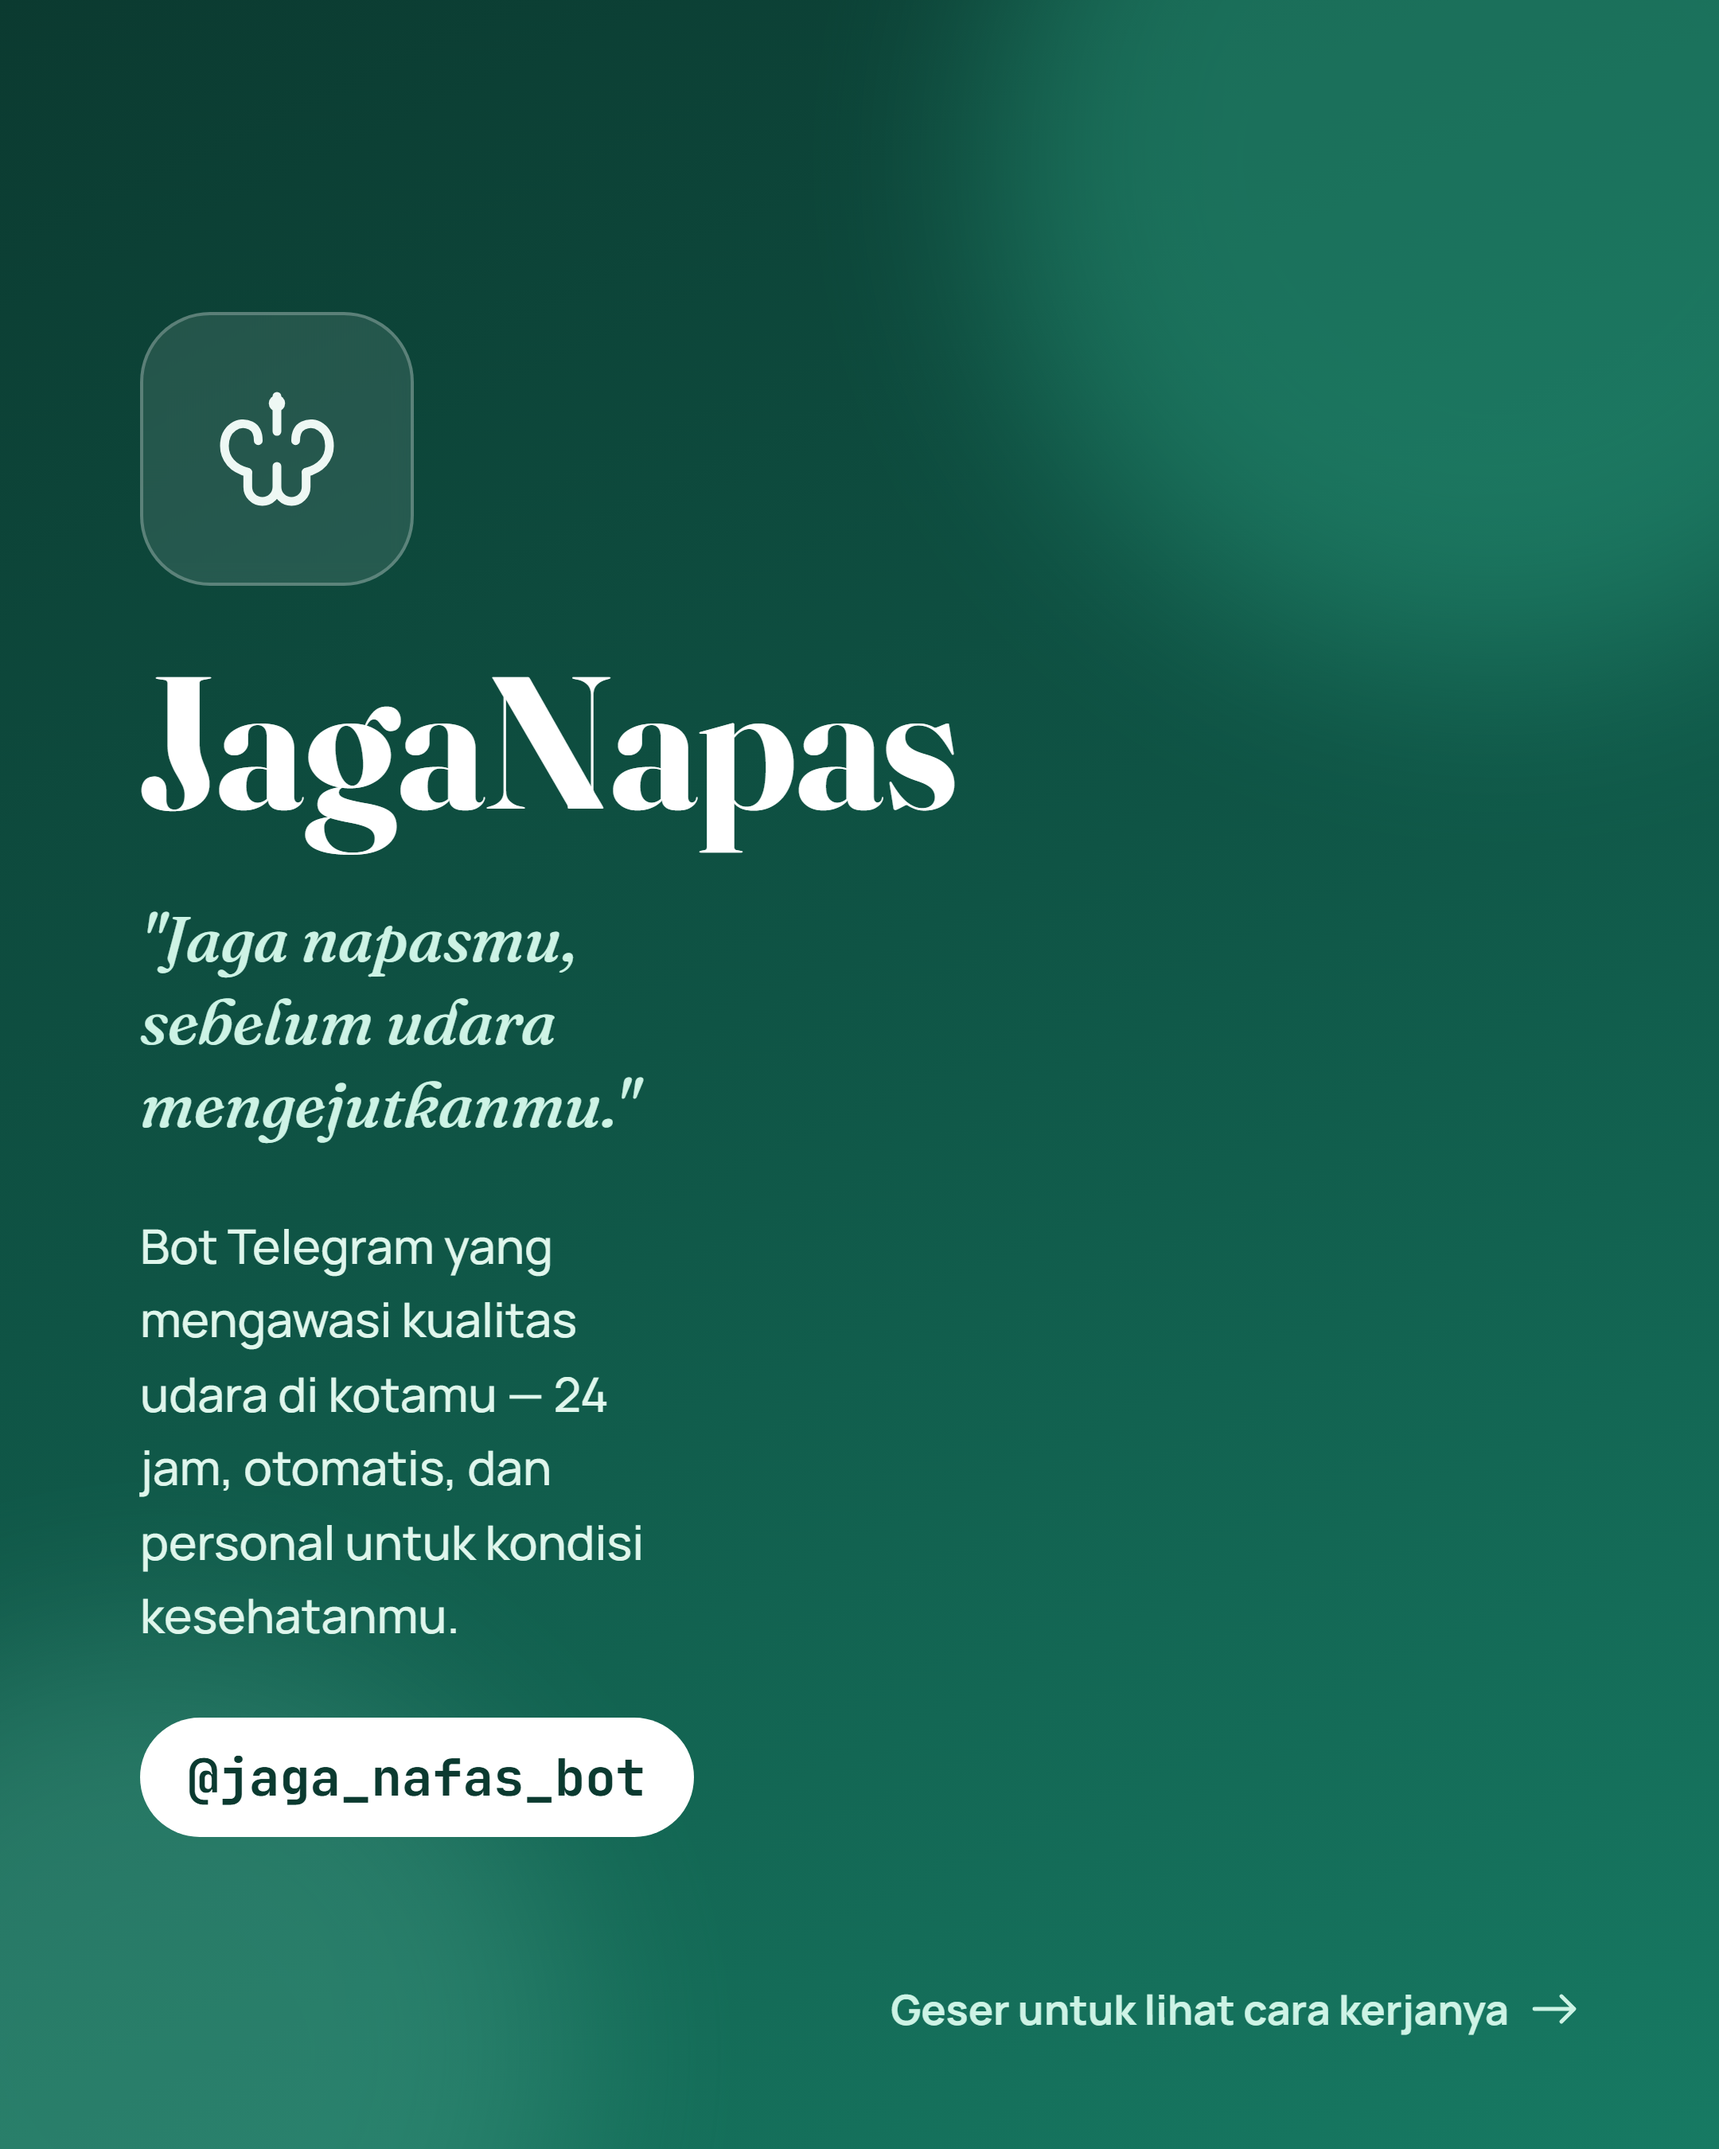
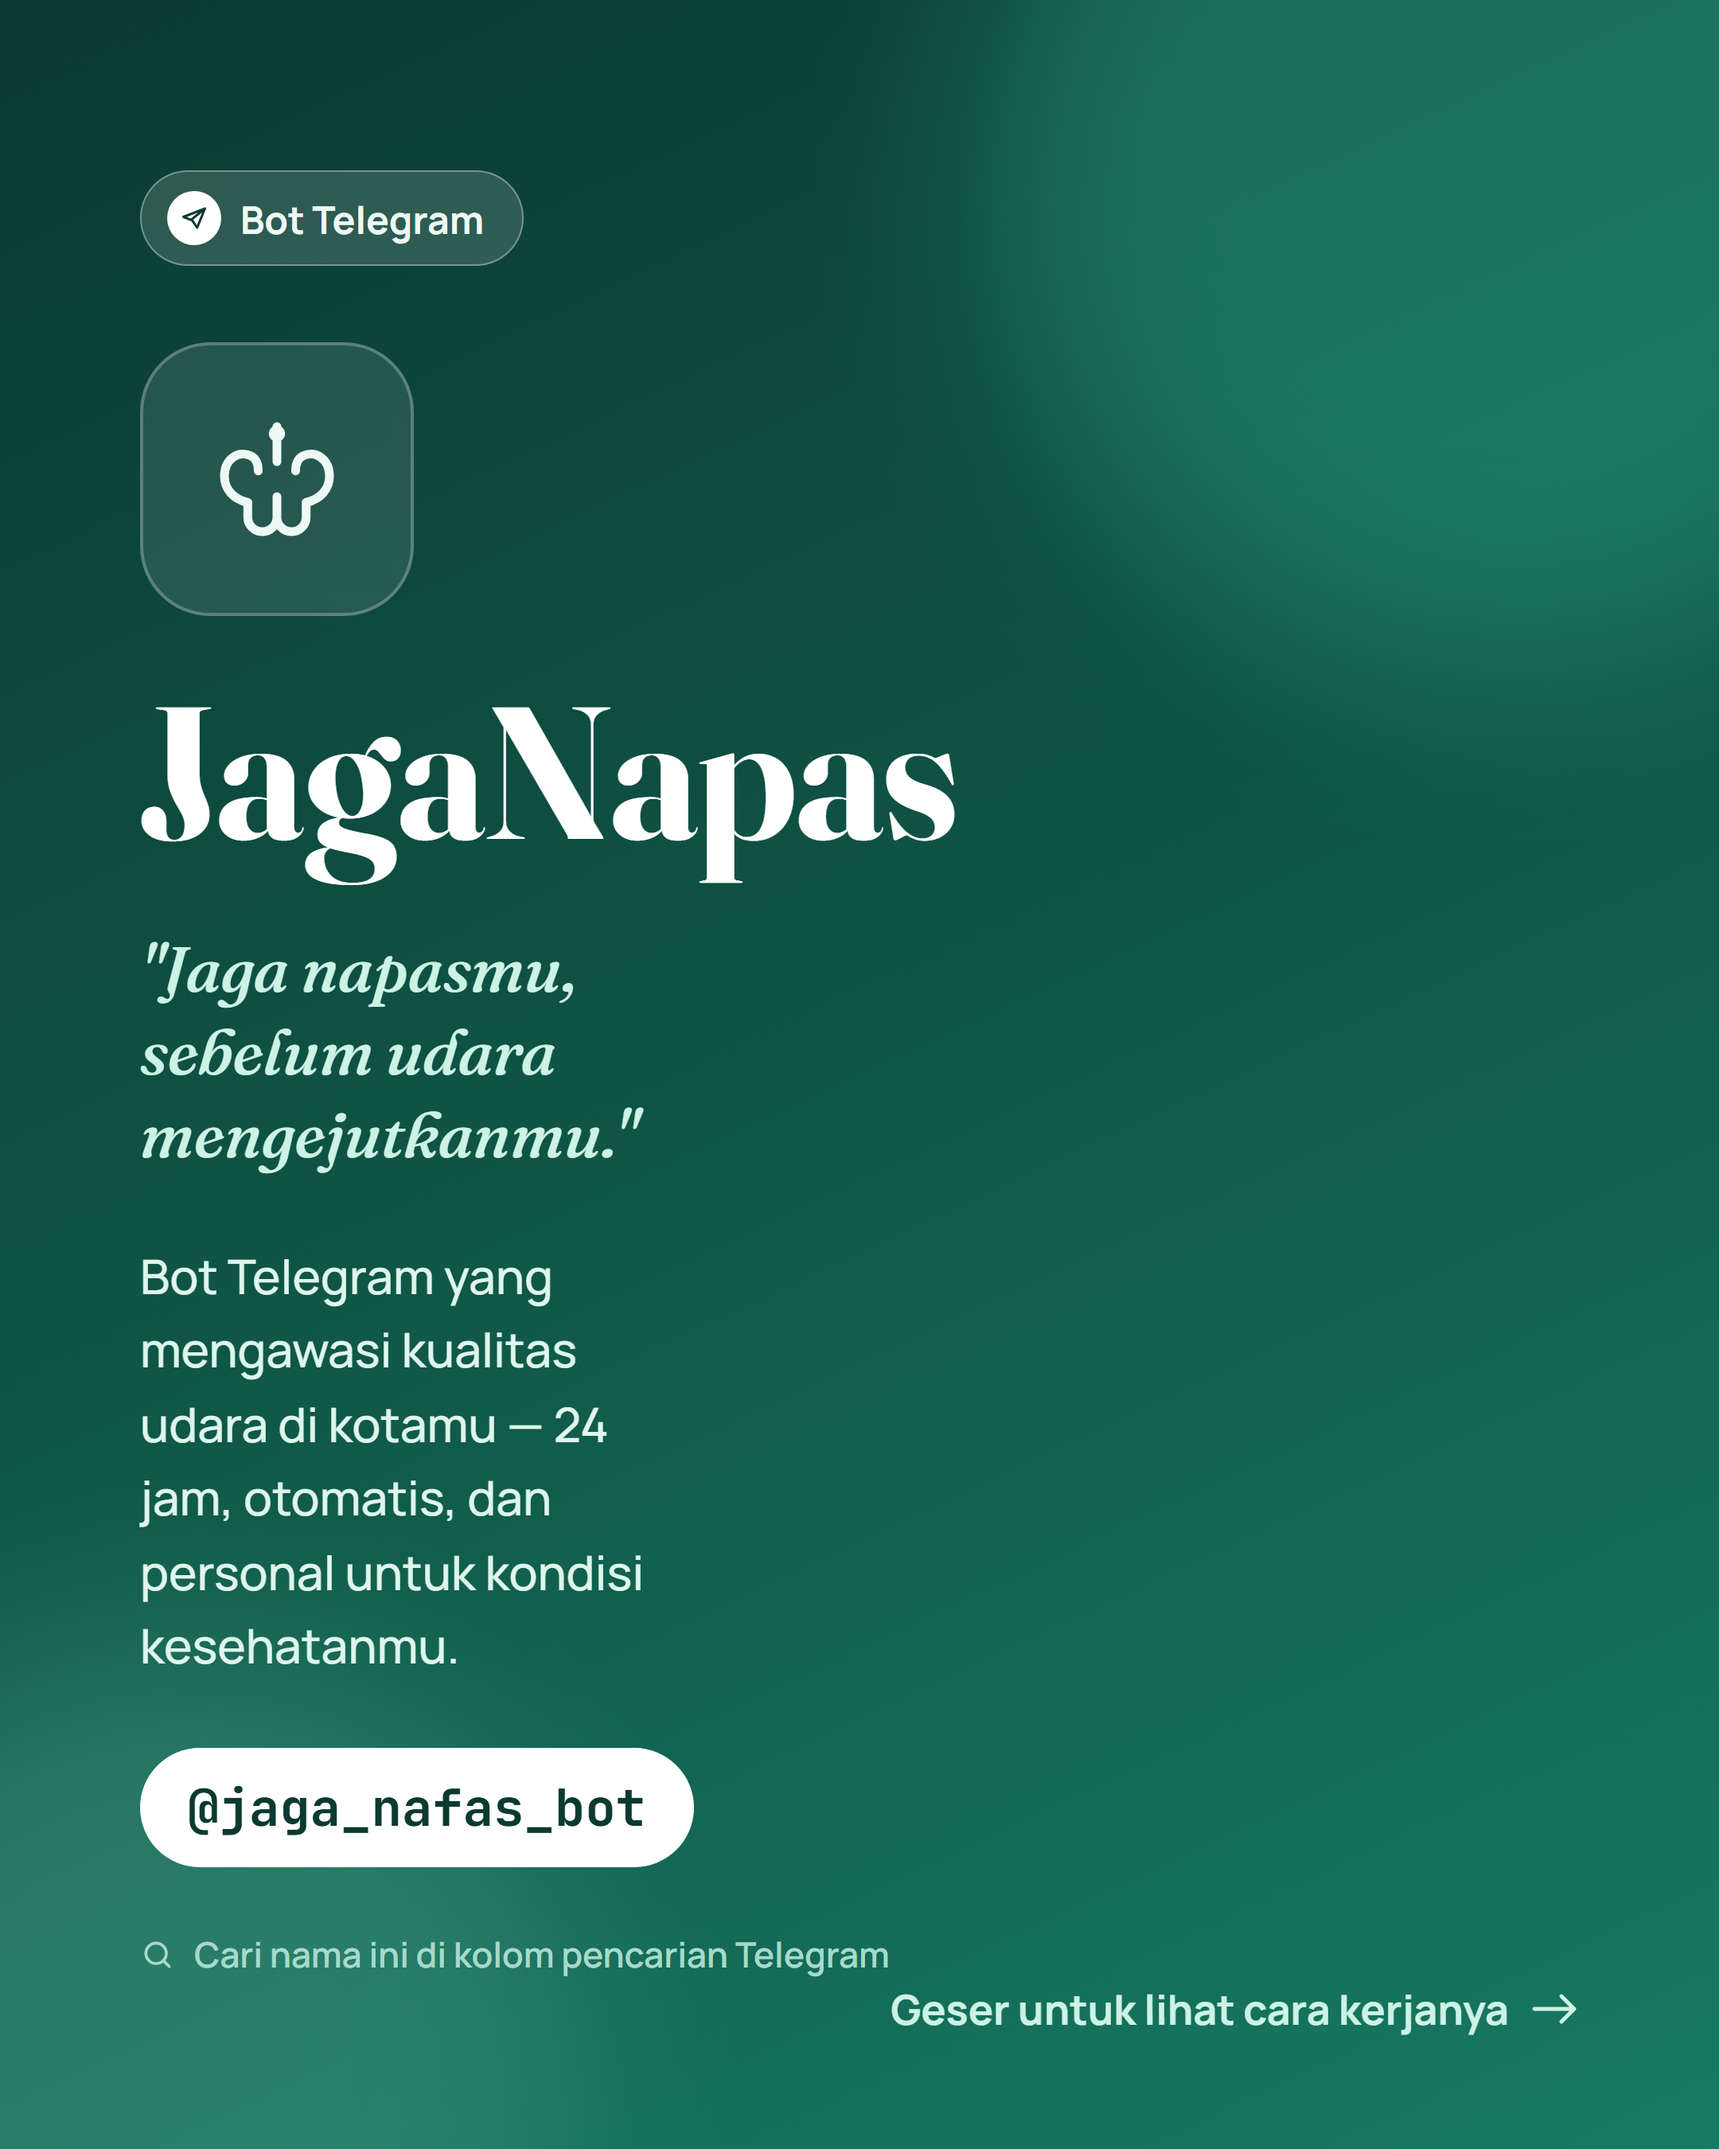
update campaigns

Changed region(s): [[0.062, 0.0622, 0.5583, 0.8711], [0.1241, 0.9022, 0.5273, 0.9333], [0.2171, 0.1556, 0.2481, 0.1867]]

diff --git a/campaigns/README.md b/campaigns/README.md
@@ -16,6 +16,16 @@ Format 1080×1350 (4:5, portrait feed), urutkan sesuai nomor file saat upload se
 | [06-manfaat.png](06-manfaat.png) | Manfaat — untuk siapa saja JagaNapas berguna |
 | [07-cta.png](07-cta.png) | Call-to-action penutup |
 
+Setiap slide yang menampilkan handle bot juga menegaskan platform-nya (badge "Bot Telegram" + langkah "Buka Telegram → cari @jaga_nafas_bot") supaya jelas ini bukan aplikasi/website, tapi bot di Telegram — penting karena nama "JagaNapas" sendiri tidak menyebut Telegram.
+
+## All-in-one: satu gambar rangkuman
+
+| File | Isi |
+|---|---|
+| [00-all-in-one.png](00-all-in-one.png) | Poster tunggal (1080×3332) merangkum semua bagian carousel jadi satu gambar panjang |
+
+**Bukan untuk feed post biasa** — rasio jauh melebihi batas maksimal Instagram (±4:5). Cocok untuk Story, link-in-bio, broadcast WhatsApp, atau referensi visual — bukan upload langsung ke feed (akan ke-crop otomatis oleh Instagram).
+
 ## Caption saran
 
 ```
